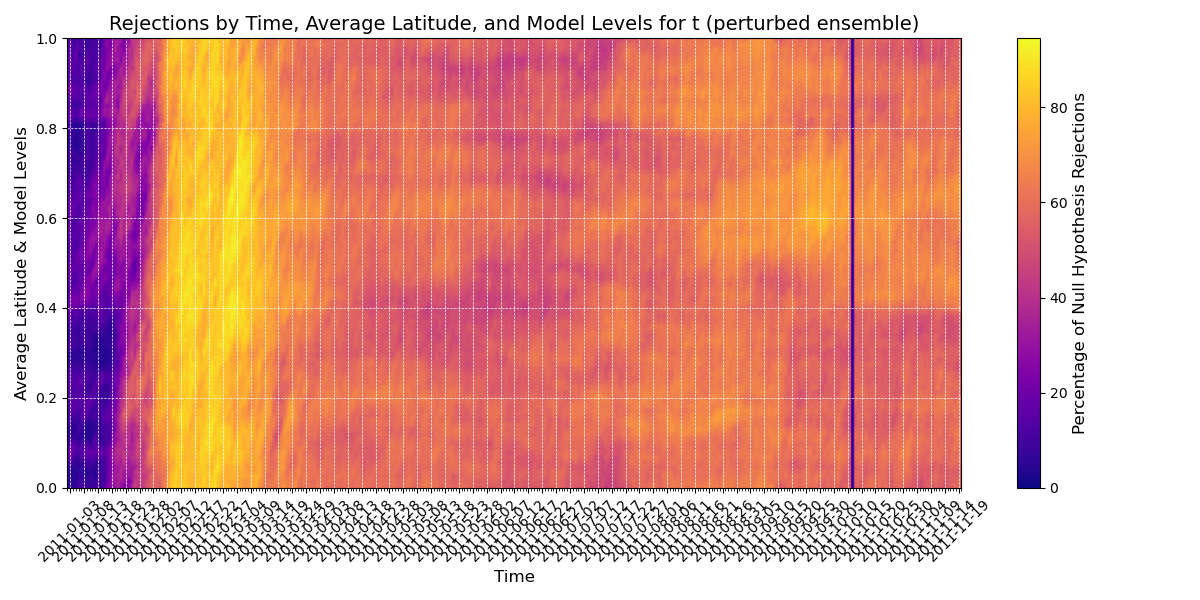
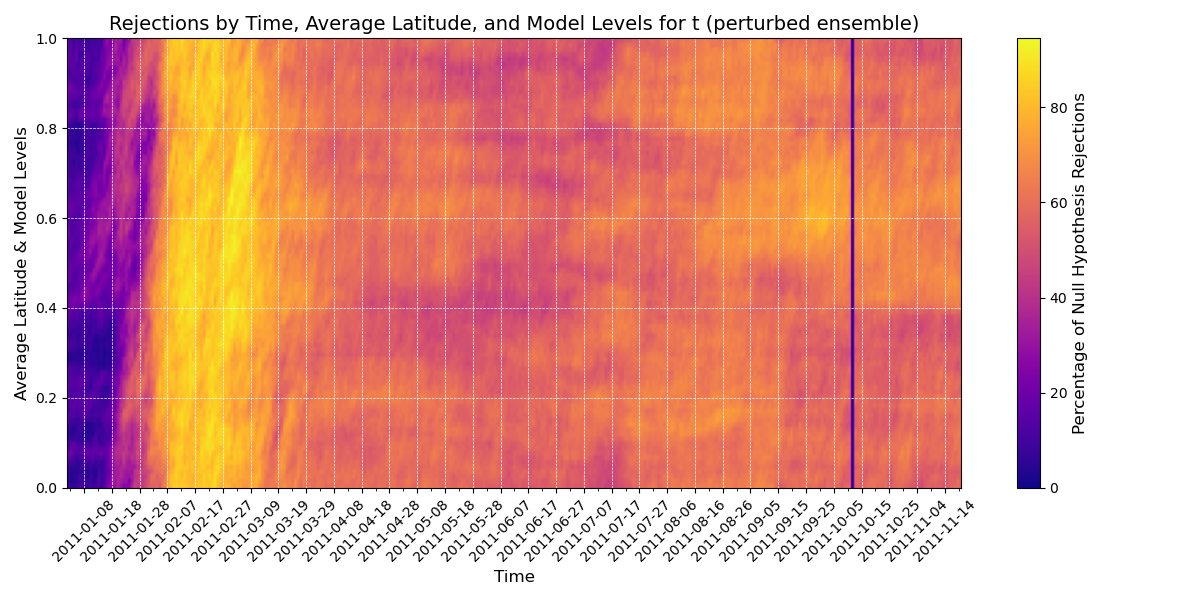
I made plot shells yay

Changed region(s): [[0.0308, 0.81, 0.8325, 0.93]]

diff --git a/Emergency.py b/Emergency.py
@@ -55,3 +55,93 @@ hypothesis rejections become visually indistinguishable from those of the refere
 ensemble? If yes, when does that happen?
 
 """
+
+def create_plot(data, title, xlabel, ylabel, filename, x_extent, y_extent, y_ticks=None):
+    """Generates a heatmap plot."""
+    fig, ax = plt.subplots(figsize=(12, 6))
+    im = ax.imshow(
+        data.T,
+        aspect="auto",
+        cmap="plasma",
+        origin="lower",
+        extent=[x_extent[0], x_extent[1], y_extent[0], y_extent[1]],
+    )
+
+
+
+    # Format x-axis with dates
+    ax.xaxis.set_major_formatter(mdates.DateFormatter('%Y-%m-%d'))
+    ax.xaxis.set_major_locator(mdates.DayLocator(interval=5))  # Show major ticks every 5 days
+    ax.xaxis.set_minor_locator(mdates.DayLocator(interval=1))
+    plt.xticks(rotation=45)
+
+    # Add labels and title
+    ax.set_title(title, fontsize=14)
+    ax.set_xlabel(xlabel, fontsize=12)
+    ax.set_ylabel(ylabel, fontsize=12)
+
+    if y_ticks:
+        ax.set_yticks(y_ticks)
+
+    # Add colorbar
+    cbar = plt.colorbar(im, ax=ax)
+    cbar.set_label("Percentage of Null Hypothesis Rejections", fontsize=12)
+
+    # Add gridlines for readability
+    ax.grid(color='white', linestyle='--', linewidth=0.5)
+
+    # Save and show plot
+    plt.tight_layout()
+    plt.savefig(filename)
+    plt.close()
+
+# Prepare data for the three plots
+# (i) Null hypothesis rejections by average of latitude and model levels over time
+rejections_time_avg_lat_level = np.sum(rejected_4d, axis=(1, 2))  # Sum over model levels and latitudes
+total_lat_levels = rejected_4d.shape[1] * rejected_4d.shape[2]
+percent_rejections_time_avg_lat_level = (rejections_time_avg_lat_level / total_lat_levels) * 100
+time_steps = pd.date_range(start=args.start_date, end=args.end_date, freq=f"{args.interval}D")
+
+create_plot(
+    percent_rejections_time_avg_lat_level,
+    f"Rejections by Time, Average Latitude, and Model Levels for {args.variable} ({args.ensemble_type} ensemble)",
+    "Time",
+    "Average Latitude & Model Levels",
+    f"{args.variable}_{args.ensemble_type}_time_avg_lat_level.png",
+    x_extent=[mdates.date2num(time_steps[0]), mdates.date2num(time_steps[-1])],
+    y_extent=[0, 1],  # Set an appropriate y-range
+)
+
+# (ii) Null hypothesis rejections by latitude over time
+rejections_time_lat = np.sum(rejected_4d, axis=(1, 2))  # Sum over model levels and longitudes
+percent_rejections_time_lat = (rejections_time_lat / (rejected_4d.shape[2] * rejected_4d.shape[3])) * 100
+
+create_plot(
+    percent_rejections_time_lat,
+    f"Rejections by Time and Latitude for {args.variable} ({args.ensemble_type} ensemble)",
+    "Time",
+    "Latitude Index",
+    f"{args.variable}_{args.ensemble_type}_time_lat.png",
+    x_extent=[mdates.date2num(time_steps[0]), mdates.date2num(time_steps[-1])],
+    y_extent=[0, rejected_4d.shape[3]],
+)
+
+# (iii) Null hypothesis rejections by theoretical pressure using model levels over time
+# Assuming model levels correspond to pressure levels; adapt accordingly if needed
+rejections_time_pressure = np.sum(rejected_4d, axis=(2, 3))  # Sum over latitudes and longitudes
+percent_rejections_time_pressure = (rejections_time_pressure / (rejected_4d.shape[2] * rejected_4d.shape[3])) * 100
+
+create_plot(
+    percent_rejections_time_pressure,
+    f"Rejections by Time and Theoretical Pressure for {args.variable} ({args.ensemble_type} ensemble)",
+    "Time",
+    "Model Levels (Theoretical Pressure)",
+    f"{args.variable}_{args.ensemble_type}_time_pressure.png",
+    x_extent=[mdates.date2num(time_steps[0]), mdates.date2num(time_steps[-1])],
+    y_extent=[0, rejected_4d.shape[1]],
+)
+
+print("Plots generated successfully!")
+
+
+#TYLER USE THIS: --start_date 2011-01-02 --end_date 2011-11-20 --variable t --ensemble_type perturbed

diff --git a/examine_normality_test_pvals.py b/examine_normality_test_pvals.py
@@ -68,10 +68,12 @@ def create_plot(data, title, xlabel, ylabel, filename, x_extent, y_extent, y_tic
         extent=[x_extent[0], x_extent[1], y_extent[0], y_extent[1]],
     )
 
+
+
     # Format x-axis with dates
     ax.xaxis.set_major_formatter(mdates.DateFormatter('%Y-%m-%d'))
-    ax.xaxis.set_major_locator(mdates.DayLocator(interval=5))  # Show major ticks every 5 days
-    ax.xaxis.set_minor_locator(mdates.DayLocator(interval=1))
+    ax.xaxis.set_major_locator(mdates.DayLocator(interval=10))  # Show major ticks every 10 days
+    ax.xaxis.set_minor_locator(mdates.DayLocator(interval=5))
     plt.xticks(rotation=45)
 
     # Add labels and title
@@ -97,7 +99,7 @@ def create_plot(data, title, xlabel, ylabel, filename, x_extent, y_extent, y_tic
 # Prepare data for the three plots
 # (i) Null hypothesis rejections by average of latitude and model levels over time
 rejections_time_avg_lat_level = np.sum(rejected_4d, axis=(1, 2))  # Sum over model levels and latitudes
-total_lat_levels = rejected_4d.shape[1] * rejected_4d.shape[2]
+total_lat_levels = rejected_4d.shape[1] * rejected_4d.shape[2] 
 percent_rejections_time_avg_lat_level = (rejections_time_avg_lat_level / total_lat_levels) * 100
 time_steps = pd.date_range(start=args.start_date, end=args.end_date, freq=f"{args.interval}D")
 
@@ -122,7 +124,7 @@ create_plot(
     "Latitude Index",
     f"{args.variable}_{args.ensemble_type}_time_lat.png",
     x_extent=[mdates.date2num(time_steps[0]), mdates.date2num(time_steps[-1])],
-    y_extent=[0, rejected_4d.shape[3]],
+    y_extent=[-96, rejected_4d.shape[3]],
 )
 
 # (iii) Null hypothesis rejections by theoretical pressure using model levels over time
@@ -136,7 +138,7 @@ create_plot(
     "Time",
     "Model Levels (Theoretical Pressure)",
     f"{args.variable}_{args.ensemble_type}_time_pressure.png",
-    x_extent=[mdates.date2num(time_steps[0]), mdates.date2num(time_steps[-1])],
+    x_extent=[mdates.date2num(time_steps[0]), mdates.date2num(time_steps[-1])], #set y extent
     y_extent=[0, rejected_4d.shape[1]],
 )
 
